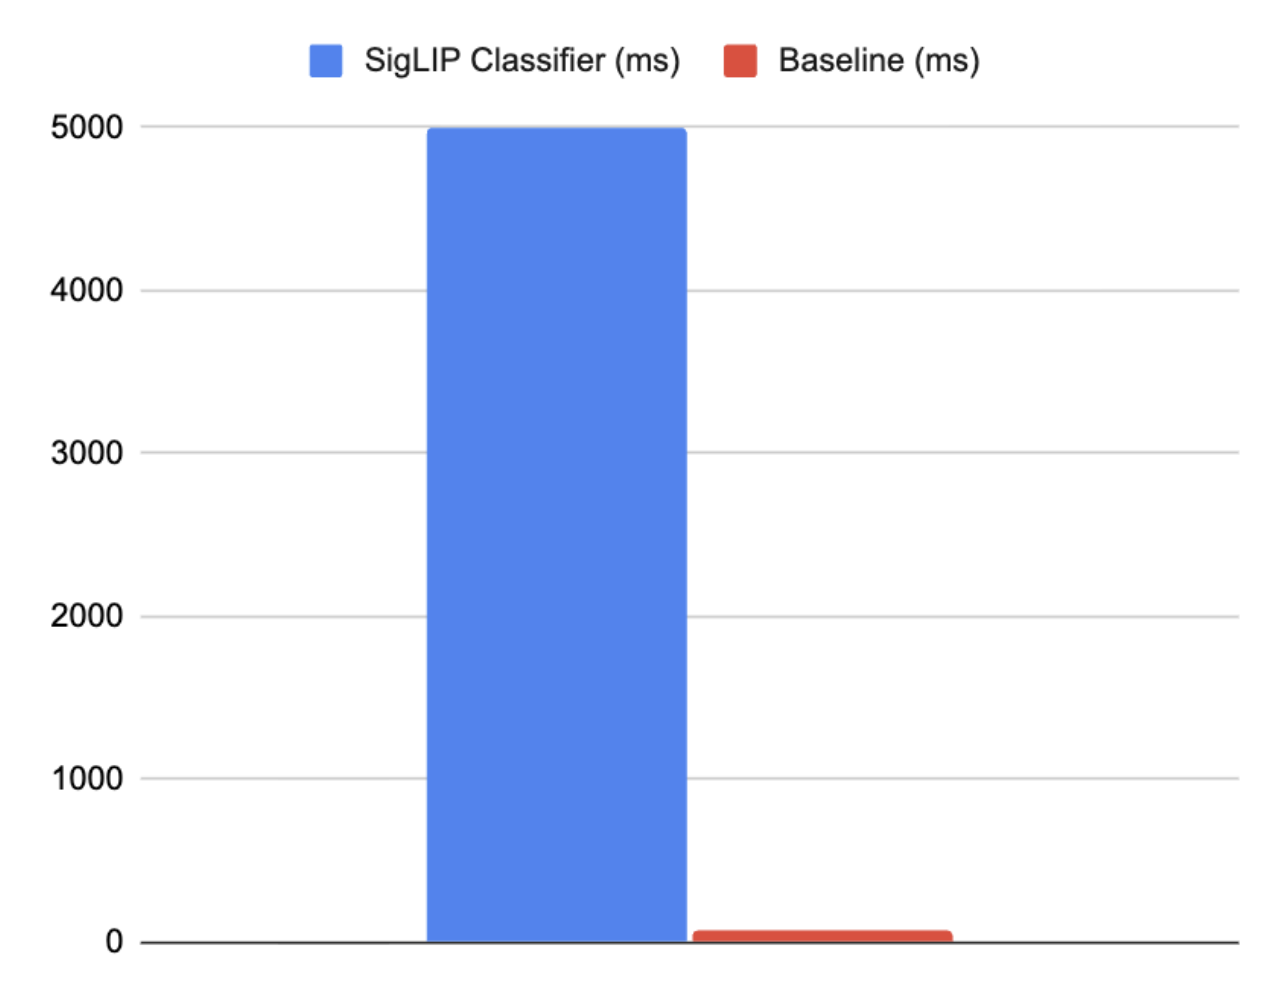
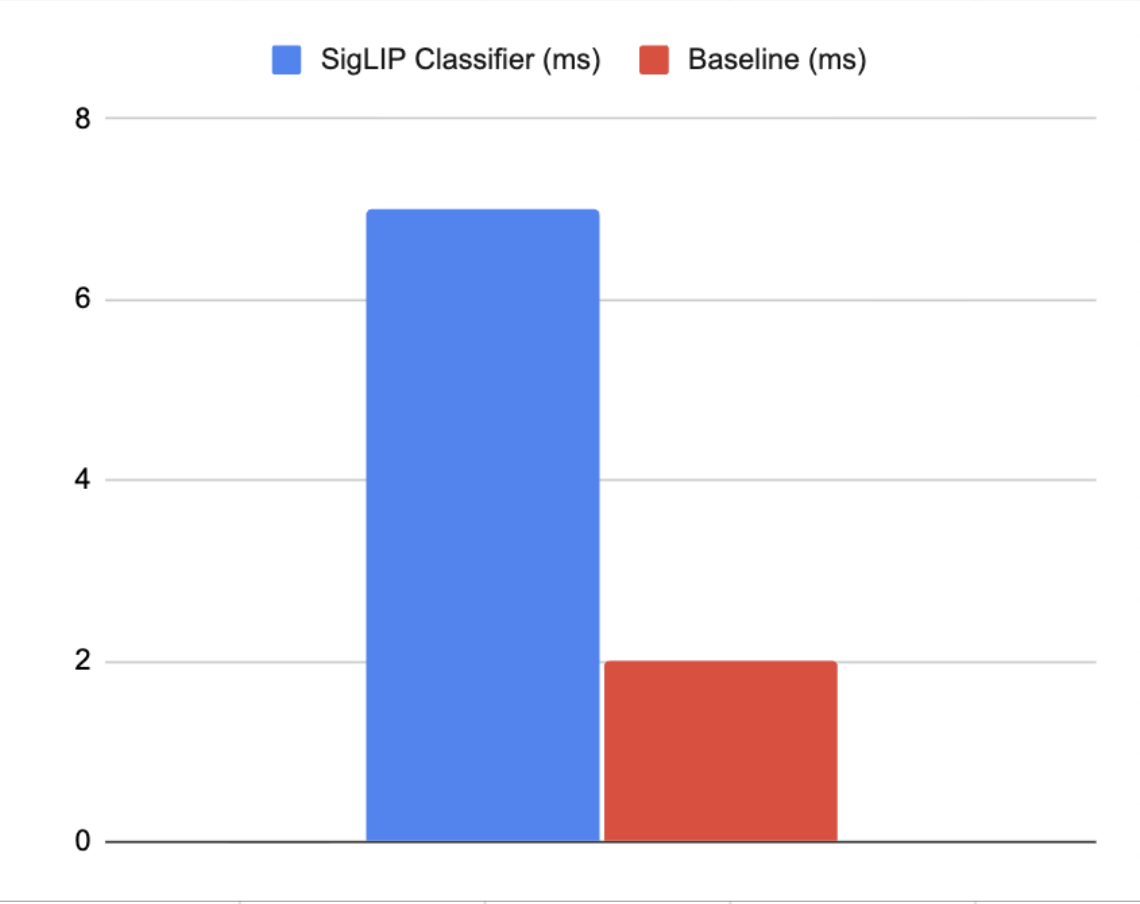
add production plan

diff --git a/vlm_team_classifier/docs/PRODUCTION_PLAN.md b/vlm_team_classifier/docs/PRODUCTION_PLAN.md
@@ -1,0 +1,52 @@
+# Production Plan
+
+## Deployment Strategy
+
+My deployment strategy is to use AWS ECS with Fargate. We will use an API gateway for users to upload videos. The video will be stored in S3. Then a container will see the new video, load YOLO and SigLIP, and start processing. We will use Redis to remember previously seen uniforms in order to decrease redudant inferences. The extracted data will be saved in DynamoDB and the annotated video will be saved in S3. 
+
+I chose to use ECS instead of Lambda because ECS can keep large models like YOLO and SigLIP in memory, so you don't have to wait 20 seconds every time before processsing a video. In addition, Lambda has a 15 minute time limit before it shuts down, which would not work when processing long basketball games. Furthermore, ECS offers the CPU and GPU power needed for AI and computer vision that Lambda does not have.
+
+I will use auto-scaling based on the queue depth. For example, if 8 videos are uploaded at the same time, the system can start up more containers to process the videos faster.
+
+
+## Monitoring & Observability
+
+**Metrics to track:**
+- **Performance:** Latency, FPS, CPU/memory usage
+- **Accuracy:** Precision, recall, accuracy
+- **Reliability:** Error rate, uptime, failed job rate
+- **Cost:** Cost per frame, cost per day
+
+We can track these metrics using CloudWatch for collecting the raw data, Datadog for displaying dashboards, and PagerDuty for alerts. Alerts can be turned on for accuracy under 90% and a queue depth above 100.
+
+## Failure Handling
+
+If YOLO is not detecting enough people, we can lower the confidence threshold. If the hybrid of SigLIP and RGB fails, we can fallback to the color-only baseline. If the baseline manages to fail, we can flag the video for manual review.
+
+If the container crashes, we will auto-restart so that no manual work is needed. If the system is running out of memory, we can process videos in short segments to prevent too many frames from being stored in memory at once. Then, in between segments the memory will be released. 
+
+
+## Cost Analysis
+
+If each game footage is 48 minutes at 30 FPS, then we have 86,400 frames per game.
+
+**\*My computer is using the Intel Core i5-8210Y, which is estimated to run models about 750 times slower than the NVIDIA H100 (which is what we are using)**
+
+**Estimated cost per day at 1000 games/day ($2/hr):** $3,200
+
+
+## Iteration Plan
+
+**Phase 1:**
+- Deploy to production and achieve at least 90% accuracy
+- Process at least 1,000 minutes of video per day
+- Basic monitoring and error handling
+
+**Phase 2:**
+- Reduce latency and cost by 25%
+- Scale to 5,000 minutes of video processed per day
+- Implement model quantization to increase speed
+
+**Phase 3:**
+- Track the ball too
+- Analyze players' actions and track their statistics

diff --git a/vlm_team_classifier/docs/RESULTS.md b/vlm_team_classifier/docs/RESULTS.md
@@ -38,8 +38,8 @@
 **\*Speed measurements are based on the use of the H100 (my computer only has the Intel Core i5-8210Y, which is estimated to run models 750 times slower than the H100)**
 | Metric | SigLIP Classifier | Baseline |
 |--------|-------------------|----------|
-| Time per frame | 7 ms | 67 ms |
-| Average player prediction latency | 0.8 ms | 7 ms |
+| Time per frame | 7 ms | 2 ms |
+| Average player prediction latency | 0.8 ms | 0.2 ms |
 
 
 ### Memory Usage
@@ -60,7 +60,7 @@
 |---------|-------------------|------------------|
 | **Accuracy** | 97% | 38% |
 | **Referee detection** | Yes | No |
-| **Speed (time per frame)** | 7 ms | 67 ms |
+| **Speed (time per frame)** | 7 ms | 2 ms |
 | **Memory usage** | 402.33 MB | 565.47 MB |
 | **Weakness with lighting** | Low | High |
 | **Weakness with similar colors** | Low | High |
